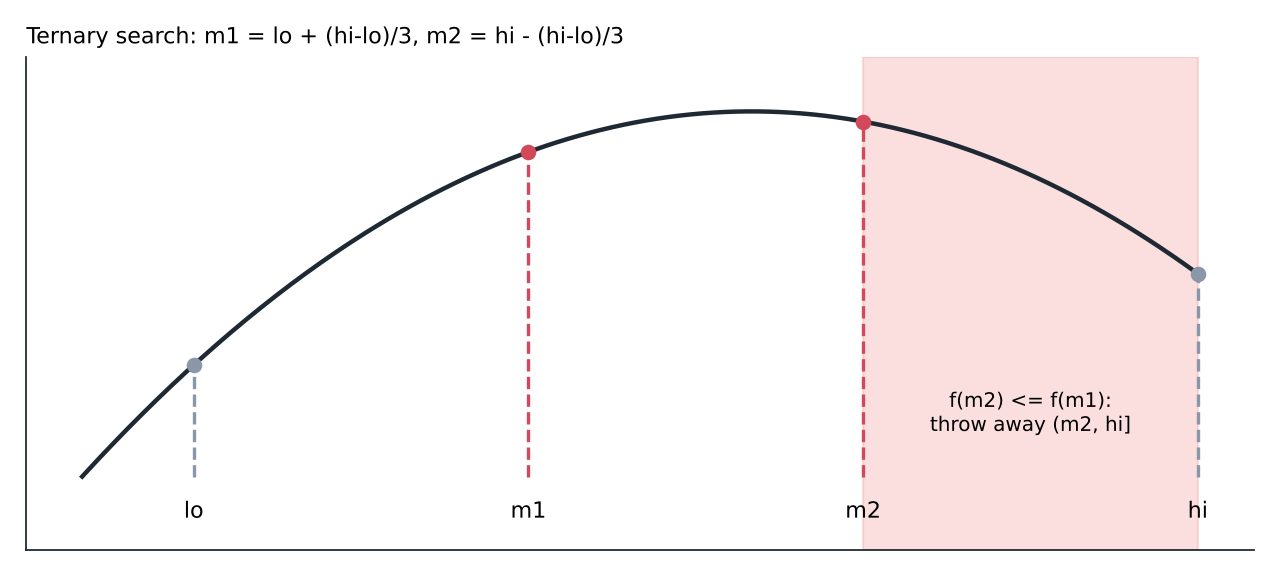
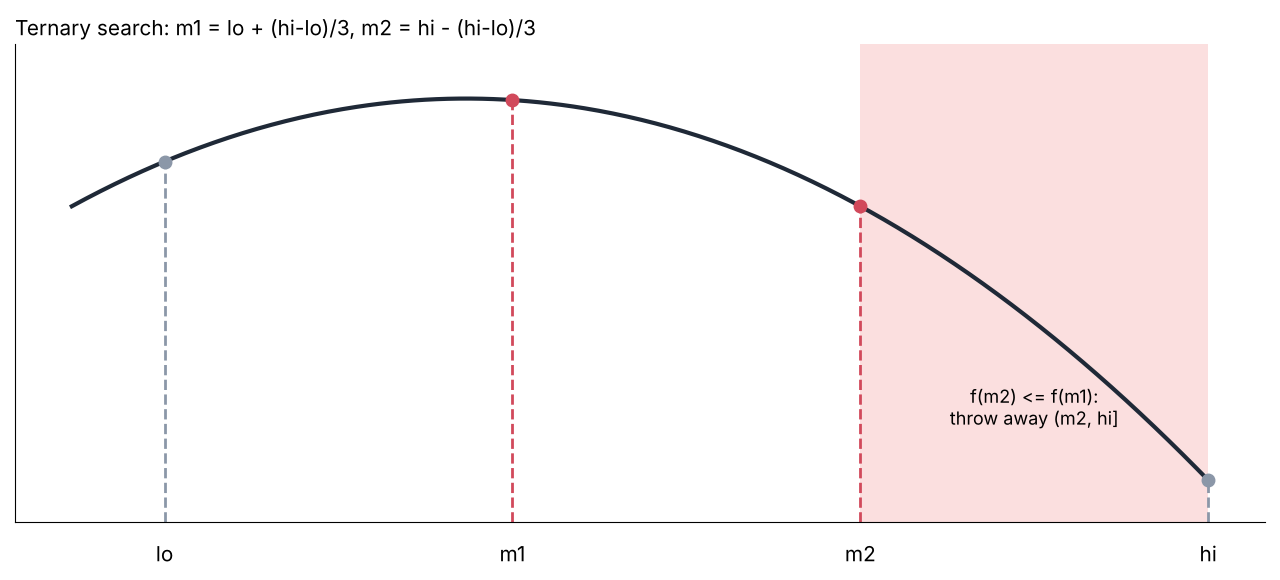
Phase 5: make three figures and their text agree
Claude-Session: https://claude.ai/code/session_01DKbVp84QMWBuC6smFgtL72

diff --git a/PROGRESS.md b/PROGRESS.md
@@ -273,7 +273,7 @@ FILL_SHORT_TOPICS_PLAN.md for the completed topics 0.1–3.8. Full report: `bank
 | 3.8 | short | short | 14 → 19 | 19 → 22 | yes |
 
 ## Questions for Saurabh
-- **Phase 5 verification questions: resolved on your behalf.** Decisions: 0.2 self-test now says 381 MB (his table and the "arr[10^8]" line stay; the note after it corrects them); 0.4 look-alikes stay on earlier cards (the validator forbids a later-topic pointer); 0.6 his `unordered_map` line and the theorem order stay; 1.2 keeps prefix XOR, and the 3D checkpoint stays as a marked stretch; 1.3 gets no extra links; 1.4 keeps the four ladder rungs, and the unreadable "5+3+2+1 = 11" grouping and the greedy-halving left column stay as his drawn items; 1.5 keeps Taxi with the corrected hint, and "1900 ranges" and fig 15 stay as his; 1.6 now states that the cards use the mirror (rightmost) rule; 1.7 keeps his `is_pow_of_two`; 2.1 product-of-divisors line corrected to exponents 0, 1, 2 (sum 24), and his "prime moduli only" line stays with the correction after it; 2.3 keeps abc156_d and cf-476B; 2.4 keeps his sentence and the three Codeforces dp-tagged problems; 3.1 tally sentence has the A count dropped. Items that need you: only the three figures that disagree with their text (1.4 `fig36_ternary_step`, `fig30_sliding`, 1.5 `fig15_abs_plots`), because they are images from your drawings and I cannot redraw them.
+- **Phase 5 verification questions: resolved on your behalf.** Decisions: 0.2 self-test now says 381 MB (his table and the "arr[10^8]" line stay; the note after it corrects them); 0.4 look-alikes stay on earlier cards (the validator forbids a later-topic pointer); 0.6 his `unordered_map` line and the theorem order stay; 1.2 keeps prefix XOR, and the 3D checkpoint stays as a marked stretch; 1.3 gets no extra links; 1.4 keeps the four ladder rungs, and the unreadable "5+3+2+1 = 11" grouping and the greedy-halving left column stay as his drawn items; 1.5 keeps Taxi with the corrected hint, and "1900 ranges" and fig 15 stay as his; 1.6 now states that the cards use the mirror (rightmost) rule; 1.7 keeps his `is_pow_of_two`; 2.1 product-of-divisors line corrected to exponents 0, 1, 2 (sum 24), and his "prime moduli only" line stays with the correction after it; 2.3 keeps abc156_d and cf-476B; 2.4 keeps his sentence and the three Codeforces dp-tagged problems; 3.1 tally sentence has the A count dropped. The three figure mismatches are fixed: `fig36_ternary_step` was redrawn so that f(m2) is not above f(m1) (the text rule was right), and the text next to `fig30_sliding` (1 leaves, 0 enters, cnt 1 to 2) and `fig15_abs_plots` (points 1, 3, 7, 10, sums 13 and 15) now matches its figure. Nothing needs you.
 - **Phase 4 bank additions (M6).** The banks of 4.6 and 4.7 were short (4.6 had one look-alike pair, two checkpoint problems, three review problems and no exam problem; 4.7 had one pair, one checkpoint problem, two review problems and no exam problem), so I added reserved problems with notes, found by research (AtCoder, LeetCode and CSES statements were fetched; Codeforces ones are recalled and marked †, with title and rating checked through the API). 4.6: lc-number-of-ways-to-assign-edge-weights-i/ii (look-alike pair), ac-abc133_f (checkpoint), review cf-739B, ac-abc321_e, cf-1296F, ac-abc201_e, lc-path-existence-queries-in-a-graph-ii, cf-702E, exam lc-minimum-weighted-subgraph-with-the-required-paths-ii. 4.7: cf-711D and cf-659E (look-alike pair), cf-949C and cf-1900E (checkpoint), review cf-1927F, ac-abc266_f, cf-1454E, cf-542C, cf-883G, cf-698B, cf-1131D, exam cf-1547G, drill cf-1276B and lc-disconnect-path. Please spot-check the Codeforces notes. Known weak points: the 4.7 drill has few 4.7 answers (the bank has no reserved drill problems for the topic), cf-962F in the 4.7 ladder needs the blocks between articulation points (marked as a stretch), cf-1131D and cf-883G are weaker fits, and the 4.6 bug catalogue has 11 bugs (the plan says 4–8).
 - **Bank fill (15 short topics).** For each, pick: (1) accept `short`; (2) lower the minimum; (3) merge a narrow pattern into a neighbour; (4) allow another source. My proposals:
   - 0.1: fold `fast-io` into the lesson as a rule and drop the pattern (exam has 1 of 2).
